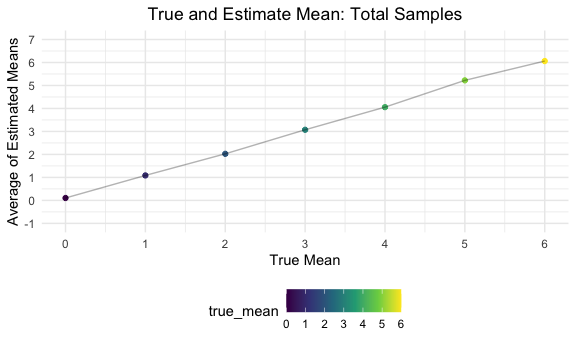
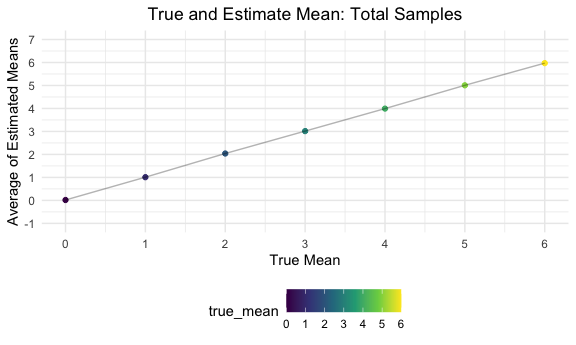
final knitting

diff --git a/p8105_hw5_mm5951.md b/p8105_hw5_mm5951.md
@@ -186,14 +186,14 @@ baltimore_test = prop.test(
   n = baltimore_summary %>% pull(n)) 
 
 baltimore_test %>% 
-  broom::tidy()
+  broom::tidy() %>% 
+  select(estimate, conf.low, conf.high) %>%
+  knitr::kable(digits = 3)
 ```
 
-    ## # A tibble: 1 × 8
-    ##   estimate statistic  p.value parameter conf.low conf.high method        alter…¹
-    ##      <dbl>     <dbl>    <dbl>     <int>    <dbl>     <dbl> <chr>         <chr>  
-    ## 1    0.646      239. 6.46e-54         1    0.628     0.663 1-sample pro… two.si…
-    ## # … with abbreviated variable name ¹alternative
+| estimate | conf.low | conf.high |
+|---------:|---------:|----------:|
+|    0.646 |    0.628 |     0.663 |
 
 As a result of this test, Baltimore, MD has a proportion of 0.646
 (0.628, 0.663) unresolved crimes.
@@ -384,7 +384,7 @@ colnames(inter) <- c('true_mean', 'sample_mean', 'p-value')
 
 combine_function = function(y){
   inter2 = list()
-  for (i in 1:50) {
+  for (i in 1:5000) {
     output[[i]] = norm_dataset(y)
     a = broom::tidy(t.test(output[[i]]))
     inter[i,1] = y
@@ -419,7 +419,7 @@ rejected on the y axis and the true value of μ on the x axis**.
 ``` r
 power_plot = result_df %>%
   group_by(true_mean) %>% 
-  summarize(power = sum(reject)/50) %>% 
+  summarize(power = sum(reject)/5000) %>% 
   ggplot(aes(x = true_mean, y = power)) +
   geom_point(aes(colour = true_mean)) +
   geom_line(alpha = 0.3) +
